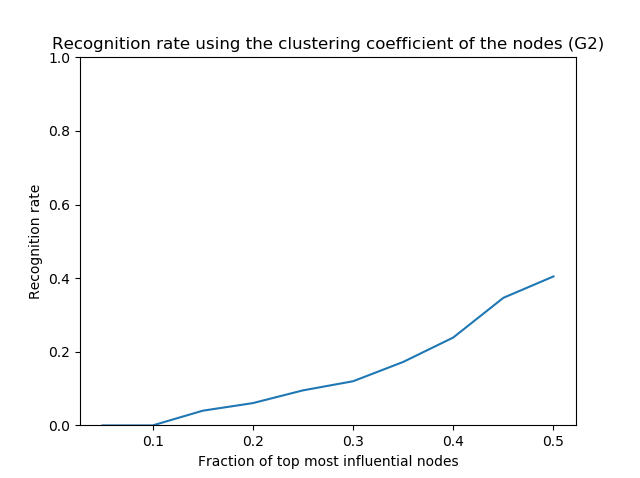
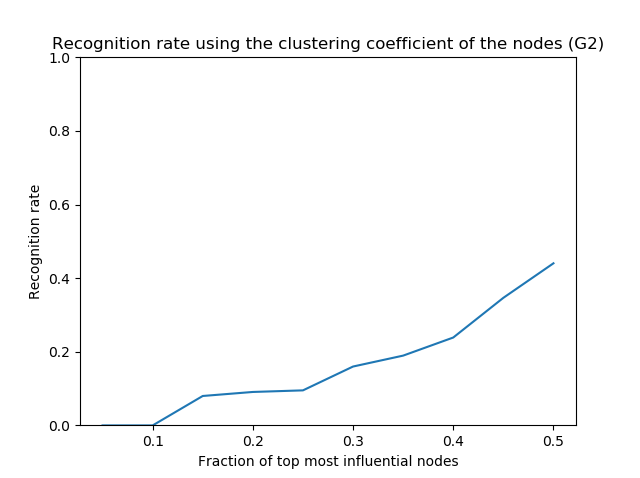
updated

Changed region(s): [[0.25, 0.7322, 0.6562, 0.9079], [0.7812, 0.5565, 0.875, 0.6151], [0.6562, 0.7029, 0.7188, 0.7322]]

diff --git a/BigAss/BigAss1C_G3.py b/BigAss/BigAss1C_G3.py
@@ -9,7 +9,7 @@ import numpy as np
 import pandas as pd
 import igraph as igraph
 import timeit
-#import matplotlib.pyplot as plt
+import matplotlib.pyplot as plt
 
 #data = pd.read_excel (r'C:\Users\Thierry\Documents\Studie\TU Delft Applied Physics\CS4195 Modeling and Data Analysis in Complex Networks\Assignment1\manufacturing_emails_temporal_network.xlsx')
 data = pd.read_excel (r'../manufacturing_emails_temporal_network.xlsx')
@@ -17,6 +17,7 @@ data = pd.read_excel (r'../manufacturing_emails_temporal_network.xlsx')
 
 #%% A
 Nnodes = np.max([data['node1'].max(), data['node2'].max()])
+G = data.drop(['timestamp'],axis=1)
 B = data.drop_duplicates()
 g = igraph.Graph()
 g.add_vertices(Nnodes)
@@ -31,9 +32,9 @@ G3 = np.zeros([len(col3),3],dtype=int)
 for i in range(len(col3)):
     G3[i,:]=np.array([col1[shuff[i]],col2[shuff[i]],col3[i]])
 
-Nlinks = len(G3)
+Nlinks = len(B)
 for i in range(Nlinks):
-    g.add_edges([(G[i,0]-1,G[i,1]-1)])
+    g.add_edges([(G3[i,0]-1,G3[i,1]-1)])
 
 #%% B
 tmax = data.timestamp.max()
@@ -90,7 +91,7 @@ t=np.linspace(1,tmax,len(ExpVal))
 plt.axes(xlim=(1,tmax))
 plt.xlabel('Time(s)')
 plt.ylabel('Average Infected Nodes')
-plt.title('Average Infected Nodes Versus Time With Corresponding Standard Deviation')
+plt.title('Average Infected Nodes Versus Time With Corresponding Standard Deviation (G3)')
 plt.errorbar(t,ExpVal,yerr = StandardDev, errorevery = 100, ecolor = 'r', color = 'k')
 #%% 10
 R = np.ones(Nnodes)*float('nan')
@@ -123,14 +124,14 @@ plt.figure()
 plt.axes(ylim=(0,1))
 plt.xlabel('Fraction of top most influential nodes')
 plt.ylabel('Recognition rate')
-plt.title('Recognition rate using the degree of the nodes')
+plt.title('Recognition rate using the degree of the nodes (G3)')
 plt.plot(f,rd_f)
 
 plt.figure()
 plt.axes(ylim=(0,1))
 plt.xlabel('Fraction of top most influential nodes')
 plt.ylabel('Recognition rate')
-plt.title('Recognition rate using the clustering coefficient of the nodes')
+plt.title('Recognition rate using the clustering coefficient of the nodes (G3)')
 plt.plot(f,rc_f)
 #%% 12
 plt.close("all")
@@ -147,7 +148,7 @@ plt.figure()
 plt.axes(ylim=(0,1))
 plt.xlabel('Fraction of top most influential nodes')
 plt.ylabel('Recognition rate')
-plt.title('Recognition rate using the closeness of the nodes')
+plt.title('Recognition rate using the closeness of the nodes (G3)')
 plt.plot(f,rclose_f)
 
 """MISSING SECOND METHOD"""
@@ -188,21 +189,21 @@ plt.figure()
 plt.axes(ylim=(0,1))
 plt.xlabel('Fraction of top most influential nodes')
 plt.ylabel('Recognition rate')
-plt.title('Recognition rate using the degree of the nodes')
+plt.title('Recognition rate using the degree of the nodes (G3)')
 plt.plot(f,rd2_f)
 
 plt.figure()
 plt.axes(ylim=(0,1))
 plt.xlabel('Fraction of top most influential nodes')
 plt.ylabel('Recognition rate')
-plt.title('Recognition rate using the clustering coefficient of the nodes')
+plt.title('Recognition rate using the clustering coefficient of the nodes (G3)')
 plt.plot(f,rc2_f)
 
 plt.figure()
 plt.axes(ylim=(0,1))
 plt.xlabel('Fraction of top most influential nodes')
 plt.ylabel('Recognition rate')
-plt.title('Recognition rate using the 80 percent ranking R of the nodes')
+plt.title('Recognition rate using the 80 percent ranking R of the nodes (G3)')
 plt.plot(f,rr_f)
 
 #plt.figure()

diff --git a/BigAss/BigAss1C_G2.py b/BigAss/BigAss1C_G2.py
@@ -14,7 +14,7 @@ import matplotlib.pyplot as plt
 data = pd.read_excel (r'..\manufacturing_emails_temporal_network.xlsx')
 
 """Create G2 by randomly shuffling the rows of the data set and resetting the indices"""
-data['timestamp'] = data['timestamp'].sample(frac=1).reset_index(drop=True)
+data['timestamp'] = data['timestamp'].sample(frac=1,random_state = 10).reset_index(drop=True)
 data = data.sort_values(by='timestamp', axis =0 )
 data = data.reset_index(drop=True)
 
@@ -150,7 +150,10 @@ infections2 = np.delete(infections2,tmax,axis=0)
 TimeInfectionPT= np.zeros((tmax,Nnodes))
 R_accent = np.zeros(Nnodes)
 R[Nnodes-1] = tmax
+
 for j in range(Nnodes):
+    if np.isnan(R[j]) == True:
+        R[j] = tmax
     for i in range(int(R[j])):
         InfectionPerTimestep[i,j] = Infections[i,j] - infections2[i,j]
         TimeInfectionPT[i,j] = InfectionPerTimestep[i,j]*(i+1) 
